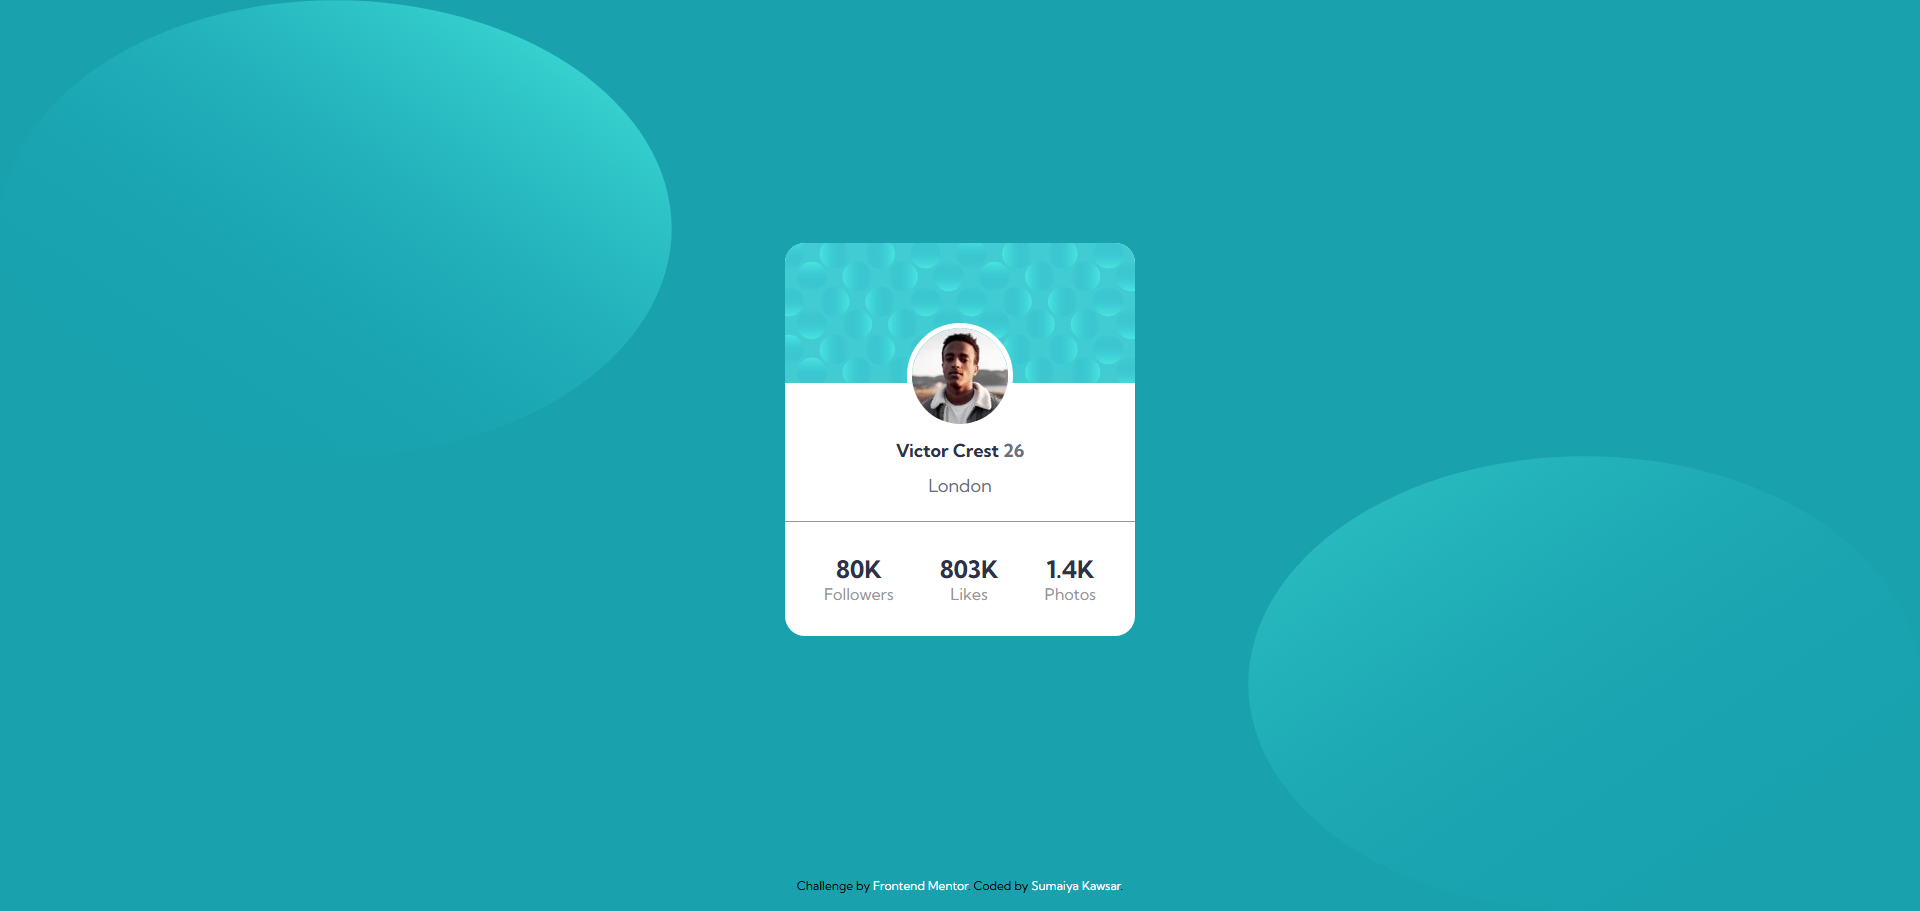
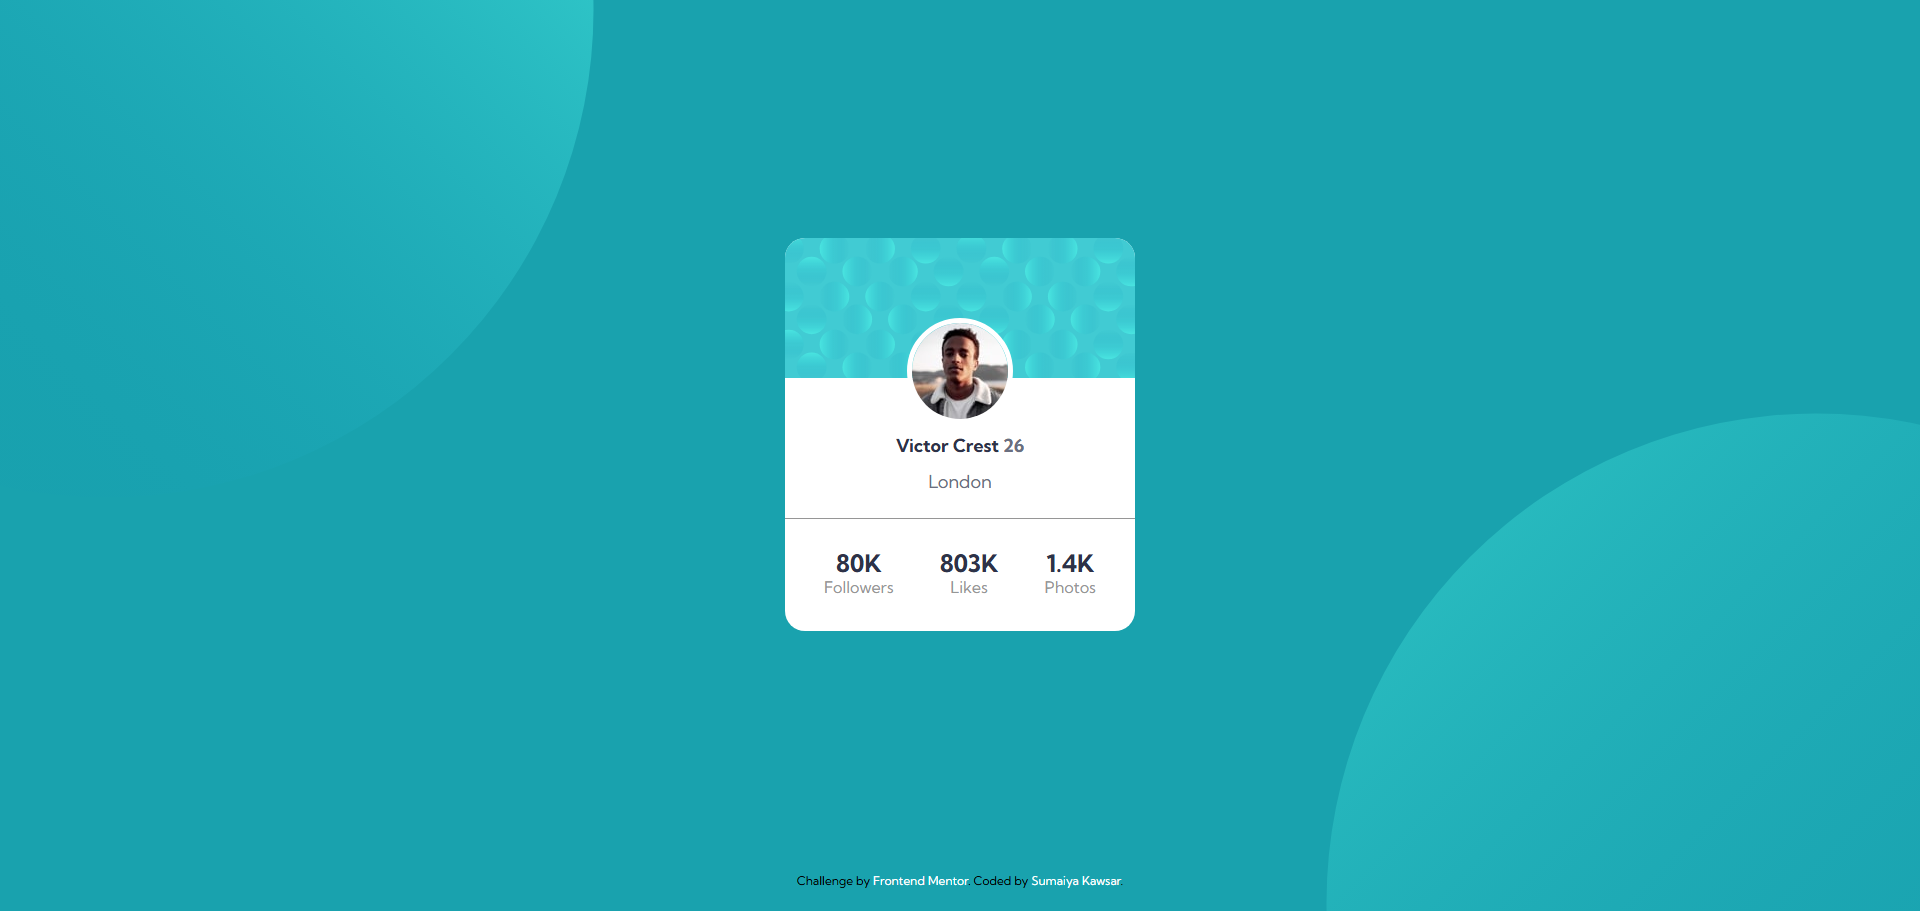
Updated Challenge 8

diff --git a/Projects/profile-card-component/styles/styles.css b/Projects/profile-card-component/styles/styles.css
@@ -1,1 +1,1 @@
-@import"https://fonts.googleapis.com/css2?family=Figtree:wght@500;800&display=swap";@import"https://fonts.googleapis.com/css2?family=Kumbh+Sans:wght@400;700&display=swap";*{margin:0;padding:0;border:0;outline:0;box-sizing:border-box;list-style:none;text-decoration:none}body{background-color:#19a2ae;background-image:url("../images/bg-pattern-top.svg"),url("../images/bg-pattern-bottom.svg");background-position:top -25vw left -20vw,bottom -25vw right -20vw;background-repeat:no-repeat,no-repeat;z-index:-10;font-family:"Kumbh Sans",sans-serif;display:flex;font-size:1rem;flex-direction:column;align-items:center;justify-content:space-between;min-height:100vh;line-height:150%}body .container{min-width:327px;max-width:384px}body .container .card{border-radius:1.25rem;display:flex;gap:1.5rem;background:#fff;flex-direction:column;z-index:999}body .container .card__header{position:relative;display:flex;justify-content:center}body .container .card__img{width:100%;border-radius:1.25rem 1.25rem 0 0}body .container .card__details{display:flex;flex-direction:column;align-items:center;gap:0.75rem;font-size:1.125rem;padding:2rem 0 0 0}body .container .card__profile{font-weight:700}body .container .card__name{color:#2d3248}body .container .card__age,body .container .card__city{color:#6a6f81}body .container .card__footer{border-top:1px #969696 solid;display:flex;justify-content:space-around;padding:1rem}body .container .card__info{padding:1rem;display:flex;flex-direction:column;align-items:center}body .container .card__number{font-weight:700;font-size:x-large;color:#2d3248}body .container .card__topic{color:#969696}body .container .profile_img{position:absolute;top:80px;display:block}body .container .profile_pic{border-radius:50%;-o-object-fit:cover;object-fit:cover;border:0.3125rem #fff solid}body .attribution{padding-block-end:1.125rem;font-size:0.75rem;text-align:center}body .attribution a{color:#fff}/*# sourceMappingURL=styles.css.map */
+@import"https://fonts.googleapis.com/css2?family=Figtree:wght@500;800&display=swap";@import"https://fonts.googleapis.com/css2?family=Kumbh+Sans:wght@400;700&display=swap";*{margin:0;padding:0;border:0;outline:0;box-sizing:border-box;list-style:none;text-decoration:none}body{background-color:#19a2ae;background-image:url("../images/bg-pattern-top.svg"),url("../images/bg-pattern-bottom.svg");background-position:top -25vw left -20vw,bottom -25vw right -20vw;background-repeat:no-repeat,no-repeat;z-index:-10;font-family:"Kumbh Sans",sans-serif;display:flex;font-size:1rem;flex-direction:column;align-items:center;justify-content:space-between;min-height:100vh;line-height:150%}body .container{min-width:327px;max-width:384px}body .container .card{border-radius:1.25rem;display:flex;gap:1.5rem;background:#fff;flex-direction:column;z-index:999}body .container .card__header{position:relative;display:flex;justify-content:center}body .container .card__img{width:100%;border-radius:1.25rem 1.25rem 0 0}body .container .card__details{display:flex;flex-direction:column;align-items:center;gap:0.75rem;font-size:1.125rem;padding:2rem 0 0 0}body .container .card__profile{font-weight:700;font-size:1.125rem}body .container .card__name{color:#2d3248}body .container .card__age,body .container .card__city{color:#6a6f81}body .container .card__footer{border-top:1px #969696 solid;display:flex;justify-content:space-around;padding:1rem}body .container .card__info{padding:1rem;display:flex;flex-direction:column;align-items:center}body .container .card__number{font-weight:700;font-size:x-large;color:#2d3248}body .container .card__topic{color:#969696}body .container .profile_img{position:absolute;top:80px;display:block}body .container .profile_pic{border-radius:50%;-o-object-fit:cover;object-fit:cover;border:0.3125rem #fff solid}body .attribution{padding-block-end:1.125rem;font-size:0.75rem;text-align:center}body .attribution a{color:#fff}/*# sourceMappingURL=styles.css.map */

diff --git a/Projects/profile-card-component/index.html b/Projects/profile-card-component/index.html
@@ -26,10 +26,10 @@
       </div>
 
       <div class="card__details">
-        <div class="card__profile">
+        <h1 class="card__profile">
           <span class="card__name">Victor Crest</span>
           <span class="card__age">26</span>
-        </div>
+        </h1>
 
         <div class="card__city">London</div>
       </div>

diff --git a/Projects/profile-card-component/styles/styles.scss b/Projects/profile-card-component/styles/styles.scss
@@ -63,6 +63,7 @@ body {
             &__profile {
                 font-weight: $font-bold;
                 // height: auto;
+                font-size: $font-size-p;
             }
             &__name {
                 color: $very-dark-desaturated-blue;
